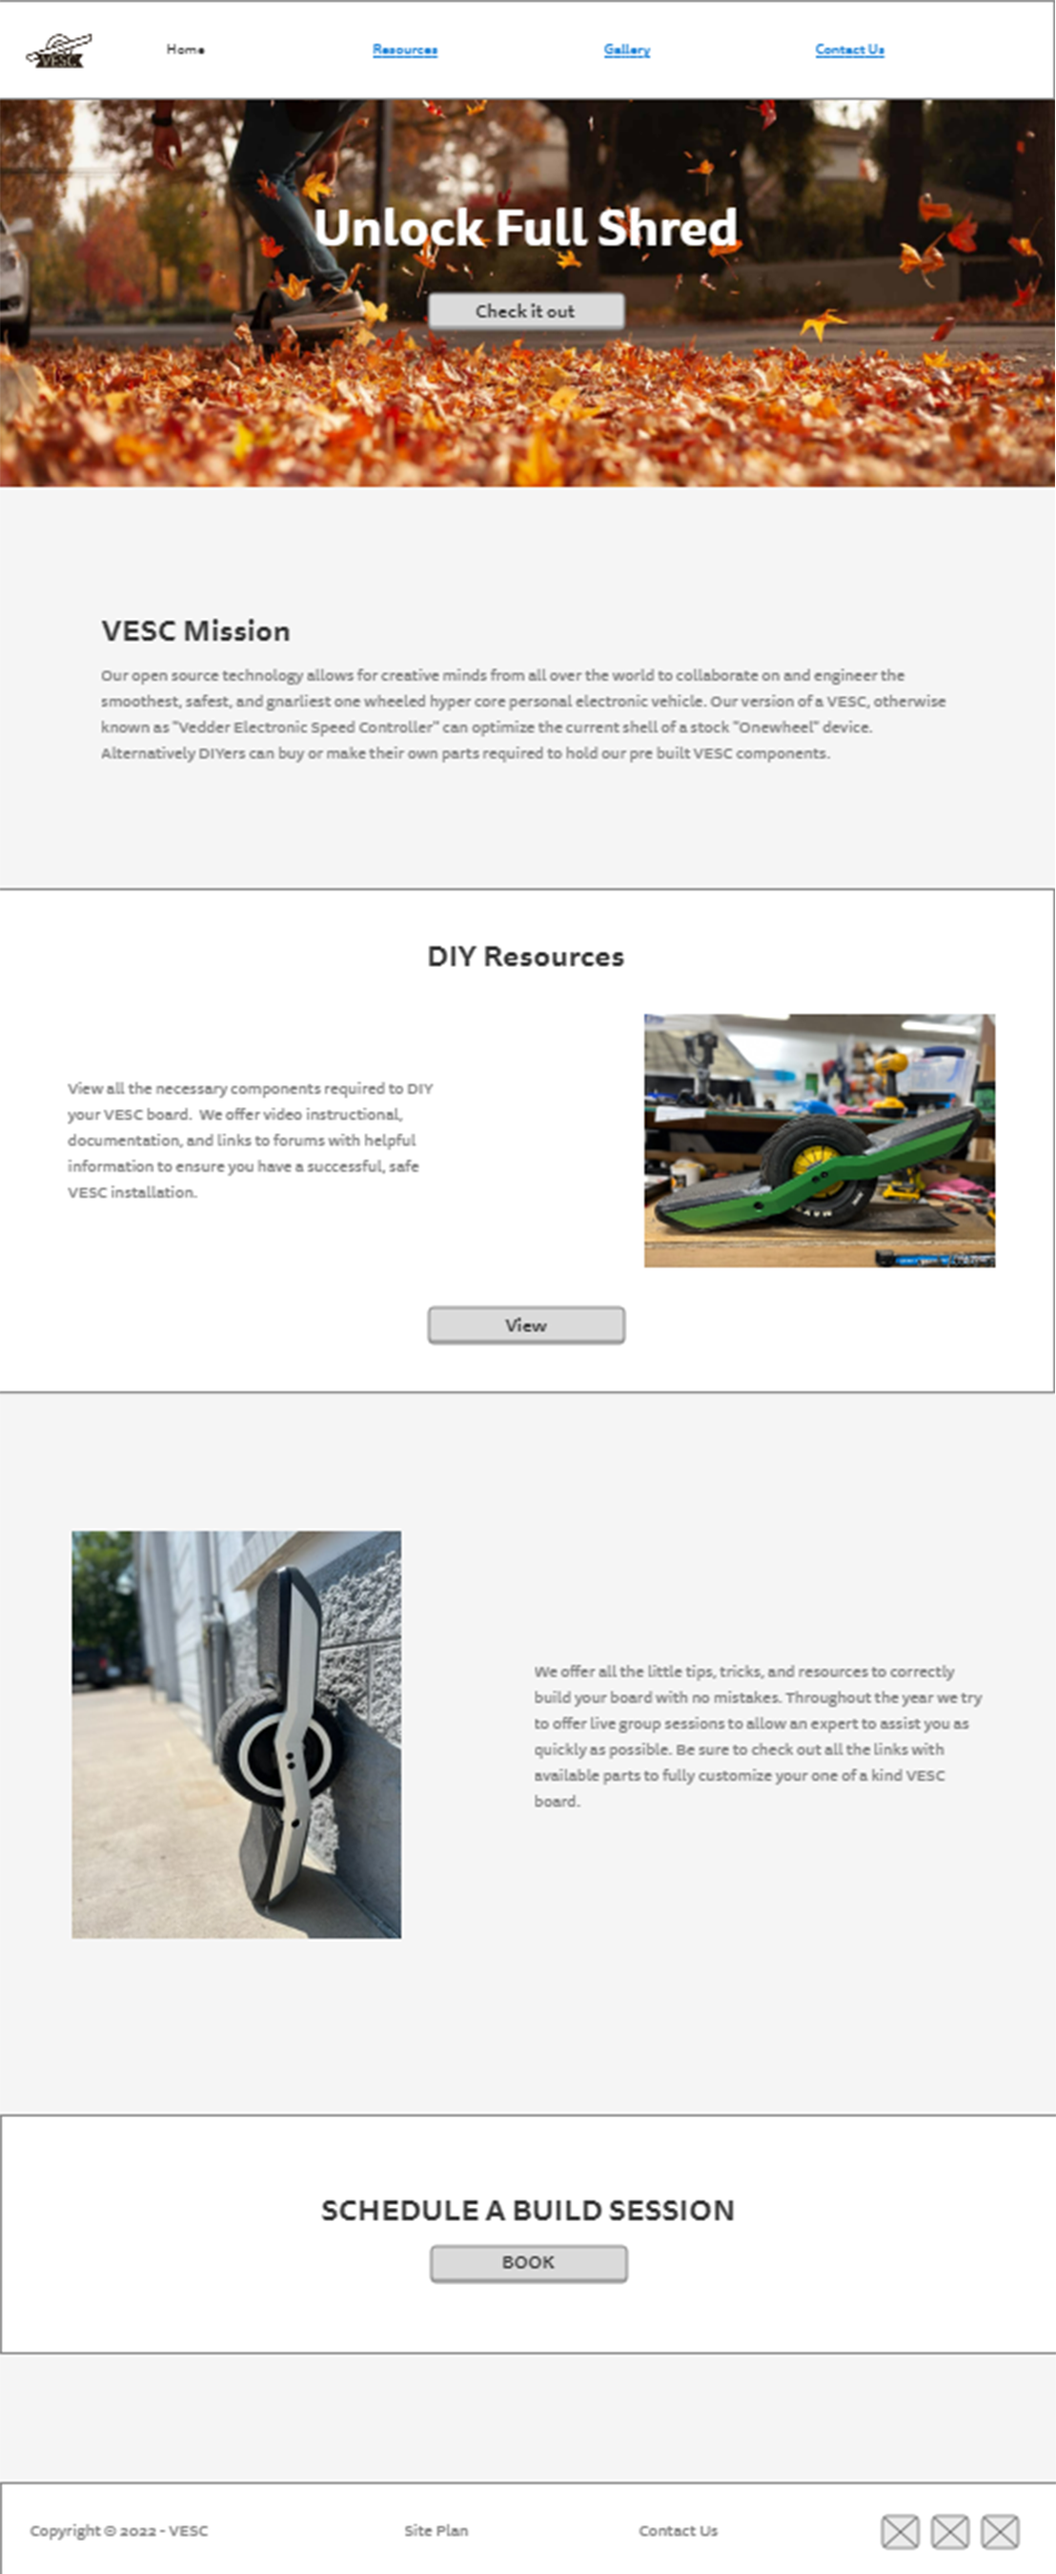
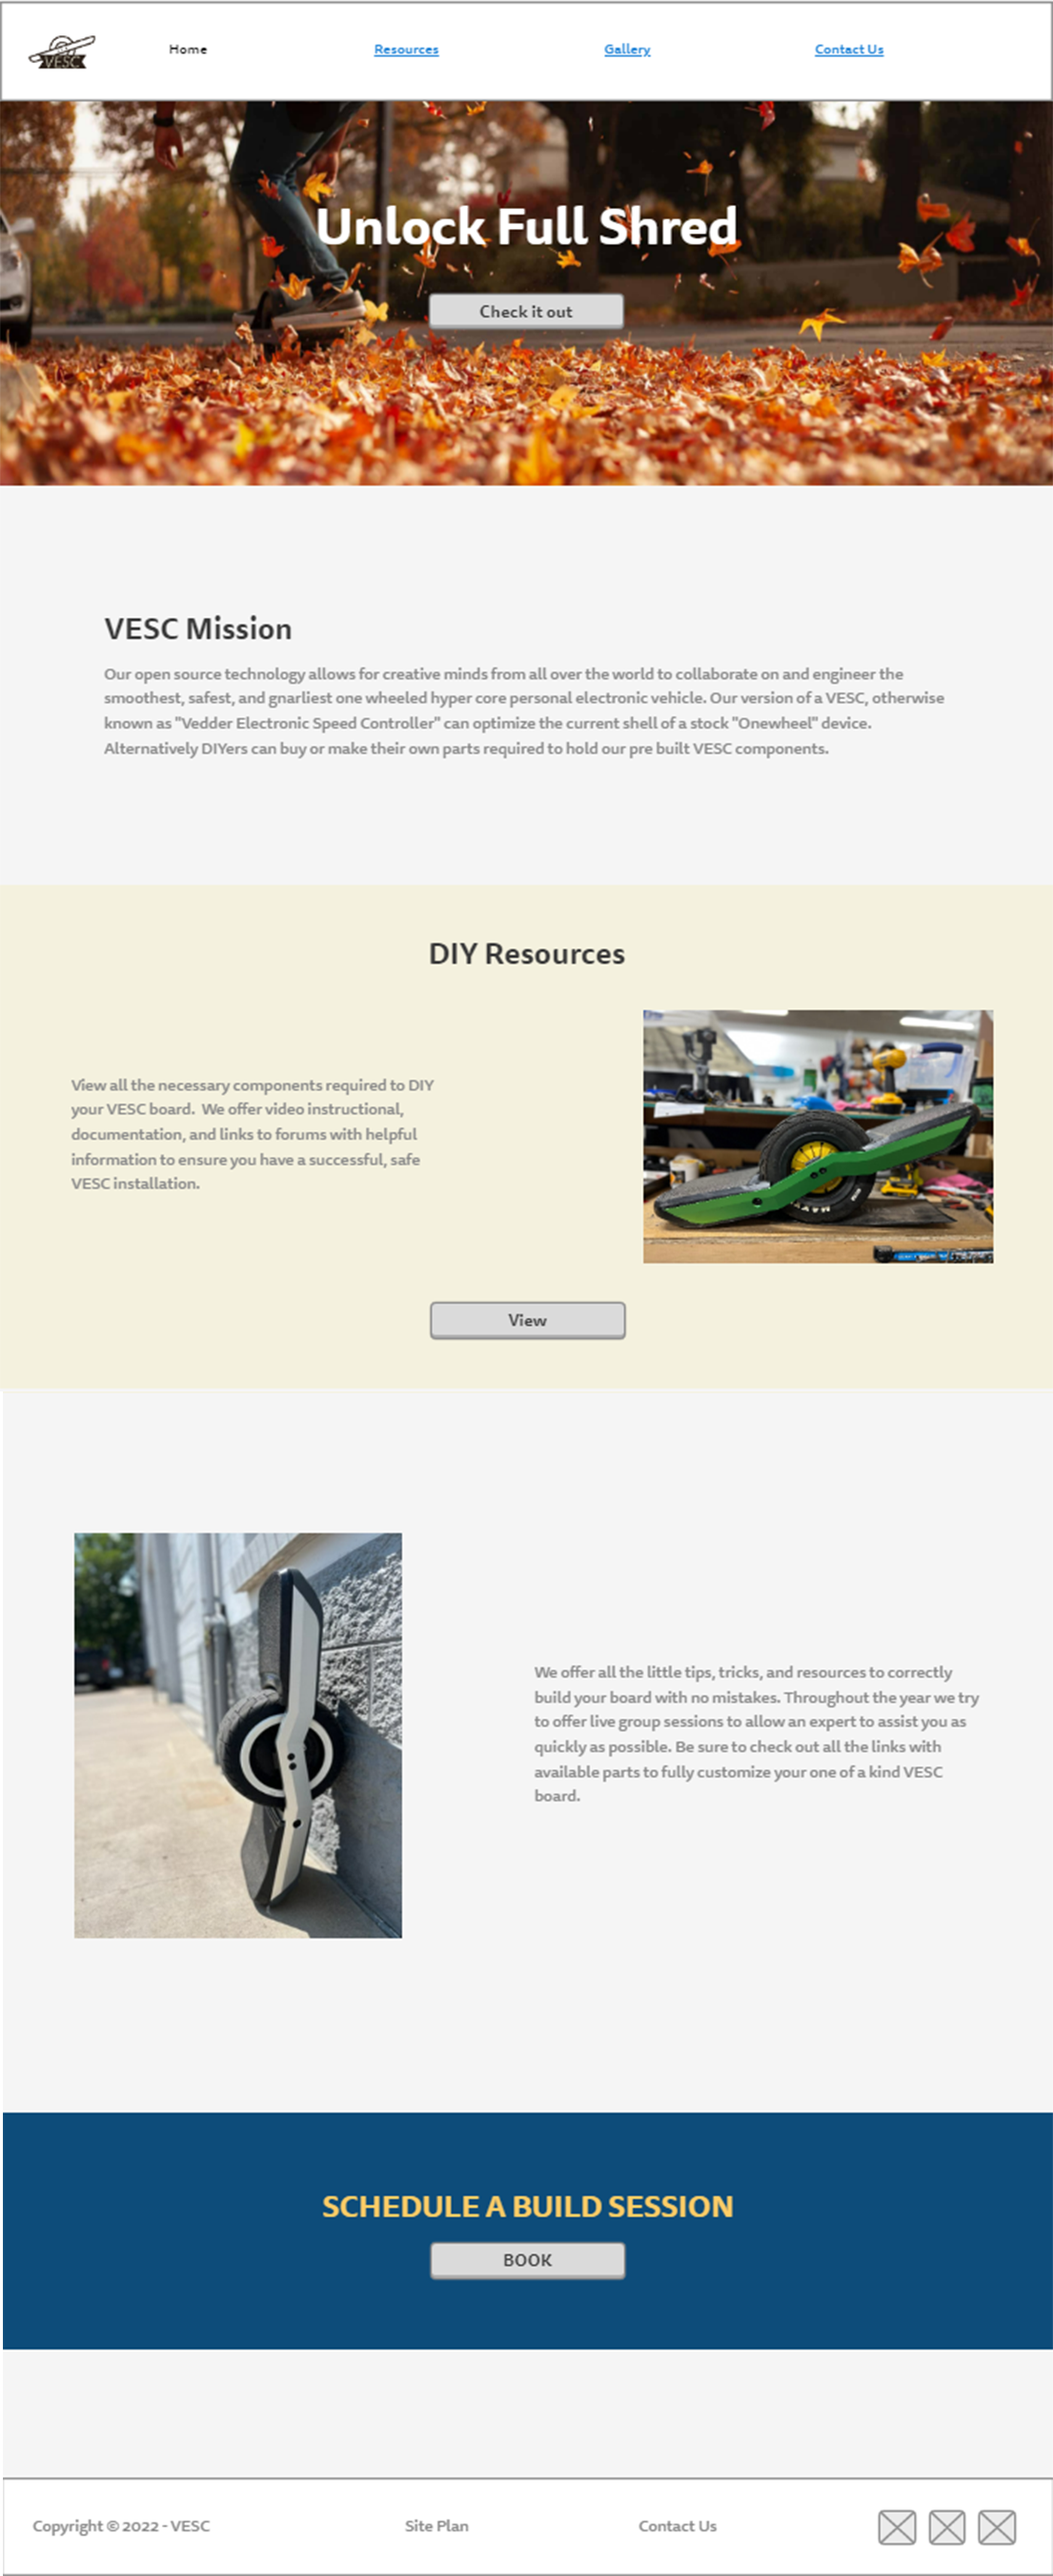
vesc wireframes

diff --git a/vesc/site-plan.html b/vesc/site-plan.html
@@ -190,7 +190,7 @@
 
       <h3>Home</h3>
       <p>         
-        Color scheme was not totally applied due to limitations with wireframe editor.
+        No additional details.
       </p>
       <img src="images/home-vesc-wireframe.png" alt="home page wireframe">
 
@@ -198,13 +198,13 @@
       <p>         
         No additional details.
       </p>
-      <img src="images/contact-vesc-wireframe.png" alt="page 2 wireframe">
+      <img src="images/resoureces-vesc-wireframe.png" alt="resources wireframe">
 
       <h3>Contact Us</h3>
       <p>         
-        [Any additional details about page 3 that the wireframe does not make clear]
+        No additional details.
       </p>
-      <img src="#" alt="page 3 wireframe">
+      <img src="images/contact-vesc-wireframe.png" alt="contact us wireframe">
     </main>
   </body>
 
